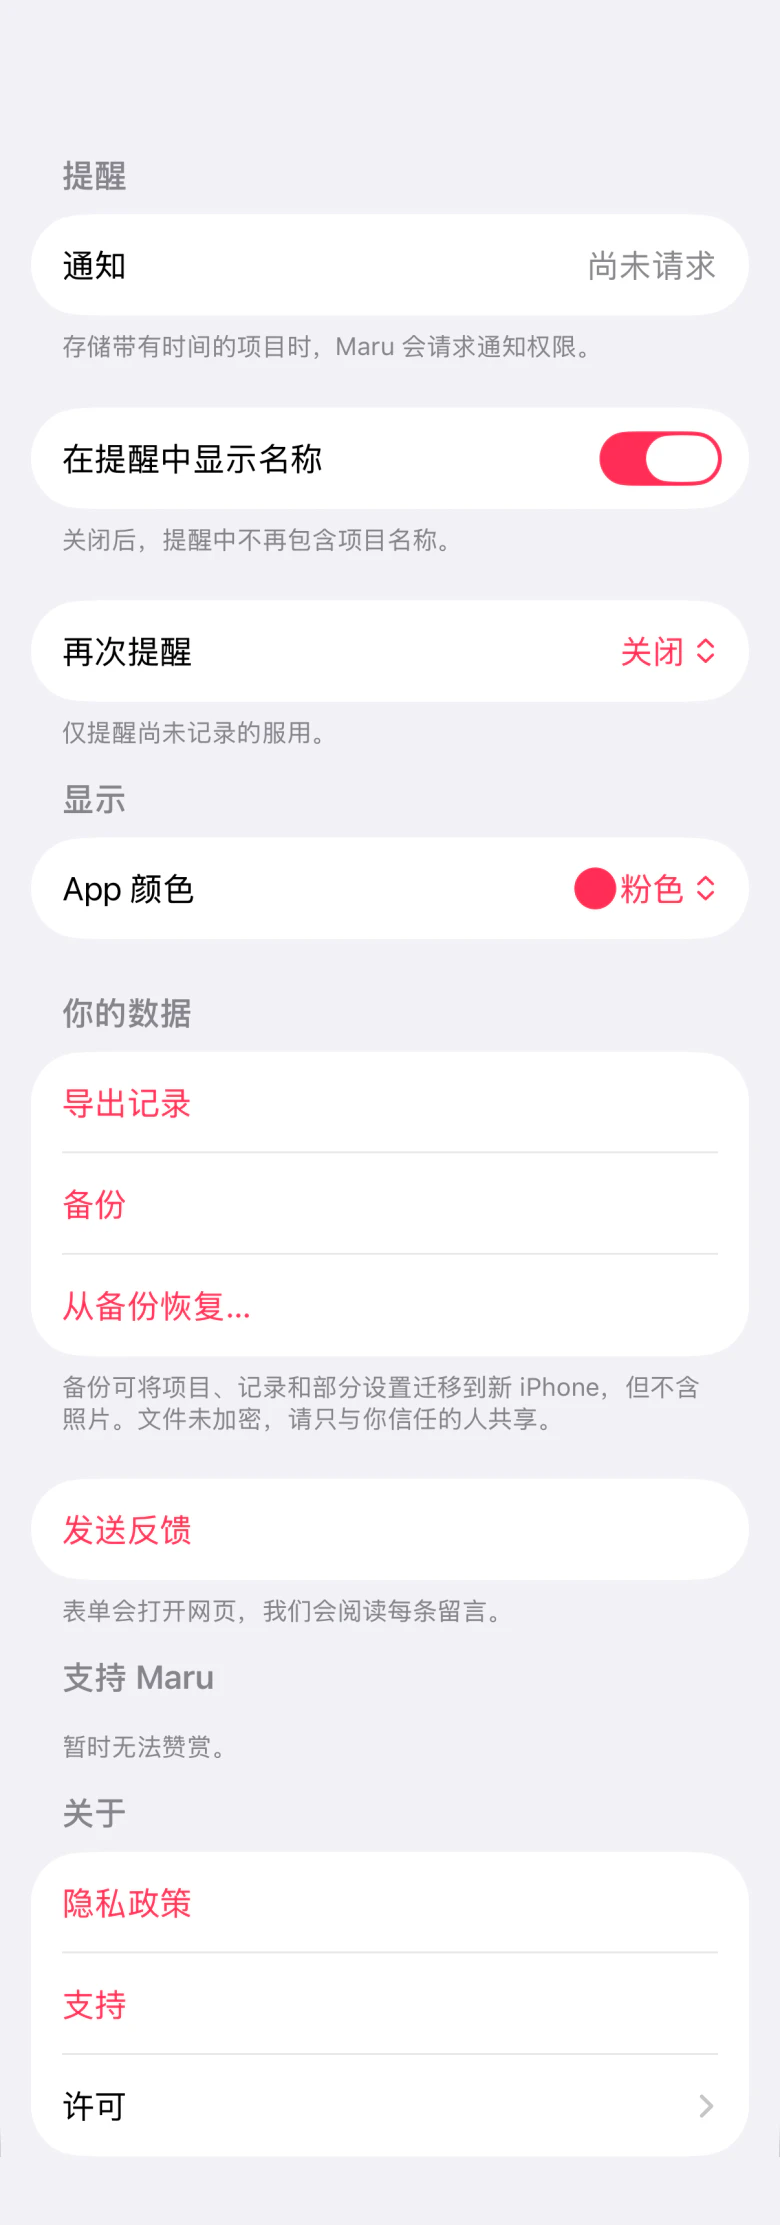
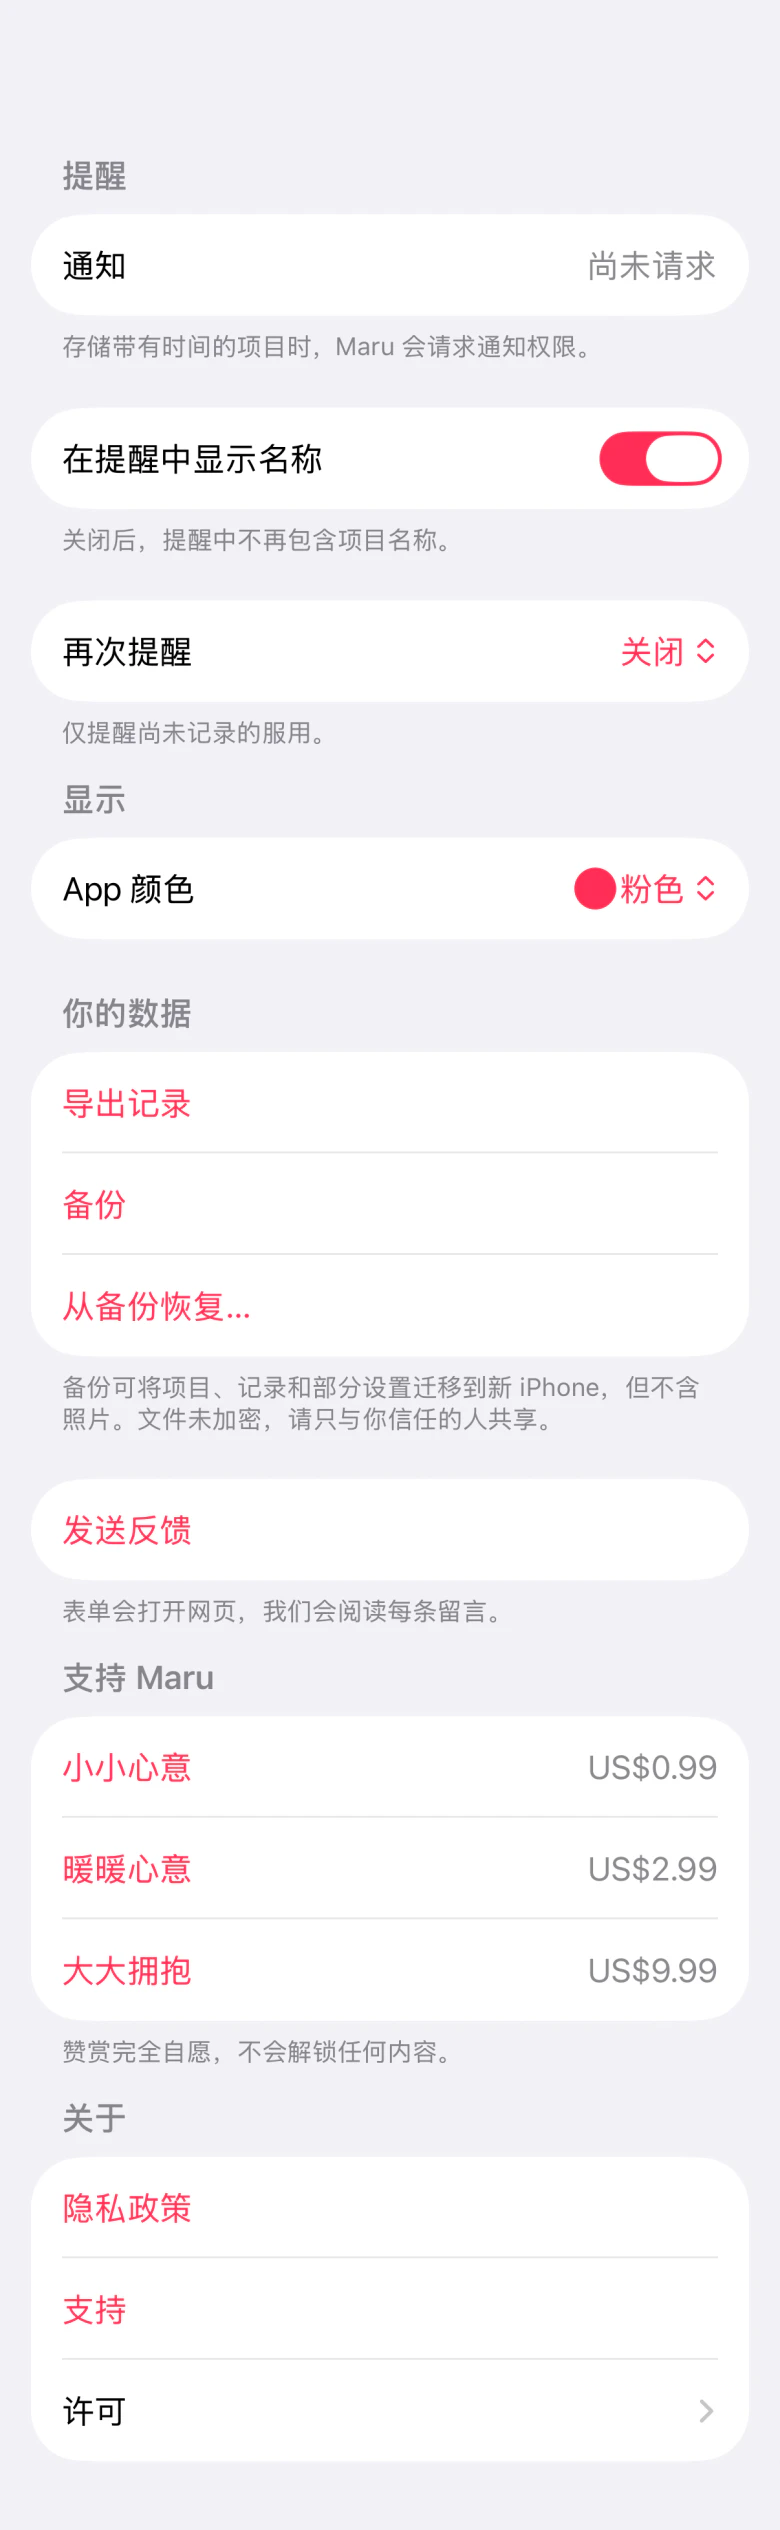
Show the tips in the Settings picture, and the shorter German title of Add Item
The Settings pictures come from captures with the StoreKit configuration
active, so "Support Maru" shows the three tips with names and prices in
each language. The German Add Item bar shows "Hinzufügen" (#57).

Config/Maru.storekit gets the tip names of the five other languages from
metadata/in-app-purchases/tips.json, with the locale codes that StoreKit
testing accepts.

diff --git a/site/build.py b/site/build.py
@@ -57,7 +57,7 @@ SHEET_TOP = 186
 SHEET_EDGE = (400, 430)
 # The form comes from the first capture down to SHEET_SEAM, and from the second capture after it. The last card of
 # the form ends above SHEET_LIMIT in the second capture. A debug build has more rows after it, and the site leaves them out.
-SHEET_SEAM, SHEET_LIMIT = 2300, 2540
+SHEET_SEAM, SHEET_LIMIT = 2300, 2570
 SHEET_END_SPACE = 105
 # The jars of the photo block, from left to right. README.md names the source of each photo.
 JARS = ["omega3", "vitd3", "magnesium"]
@@ -191,8 +191,11 @@ def import_sheet(source, name, code):
     def row(buf, y):
         return buf[y * line:(y + 1) * line]
 
-    shift = next(d for d in range(1, SHEET_SEAM - SHEET_EDGE[1])
-                 if all(row(top, y) == row(end, y - d) for y in range(SHEET_SEAM - 400, SHEET_SEAM + 1, 50)))
+    # How far the form moved between the two captures: some rows above the seam are the same in both.
+    marks = range(SHEET_SEAM - 200, SHEET_SEAM + 1, 25)
+    if all(row(top, y) == blank or row(top, y) == b"\xff\xff\xff" * CAPTURE_W for y in marks):
+        raise ValueError(f"{name}-{code}: the rows above the seam are empty")
+    shift = next(d for d in range(1, SHEET_SEAM - 200 - SHEET_EDGE[1]) if all(row(top, y) == row(end, y - d) for y in marks))
     if any(row(top, y) != blank for y in range(*SHEET_EDGE)):
         raise ValueError(f"{name}-{code}: the form starts under the bar")
     # The last card is white, and the background follows it. The column in the middle has no text.

diff --git a/site/README.md b/site/README.md
@@ -107,6 +107,7 @@ The list scrolls with the wheel, a touch, the keys, or a mouse drag, and the scr
 
 - A sheet has two captures: the form at its top, and the form scrolled down until its last card is on the screen. The command joins them. `<name>-<lang>.webp` is the full form, and `<name>-bar-<lang>.webp` is the bar of the sheet with a soft lower edge. A debug build shows a Debug section at the end of Settings, and the command leaves it out.
 - A capture of My Items or of a sheet must not show the home indicator. Capture again if it does.
+- The Settings capture must show the three tips of "Support Maru" with their names and prices. A launch with `simctl` does not load `Config/Maru.storekit`, and Settings then says that tips are not available. Run the app with the StoreKit configuration active: from Xcode, or under a test that makes an `SKTestSession` with the file. The prices are those of the file, in US dollars in every language.
 - A `button` lies over each control of a capture that moves between screens: the gear, the calendar, the plus, the two tabs, the back button, and "Done" or "Cancel". Each button has a label in the language of the page (`phone` in `src/strings/<lang>.json`), and it is 44 pt of the app or more in each direction. Escape closes a sheet or goes back. No other control of a capture does anything.
 - For assistive technology, the phone is one group with a short description, and each picture is hidden.
 - With reduced motion, a screen fades in and out and does not move.
